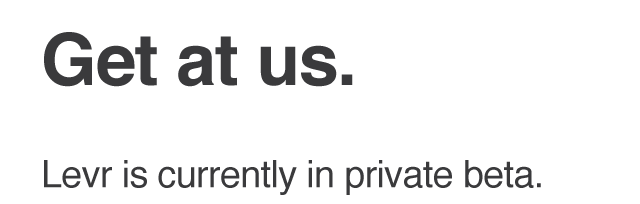
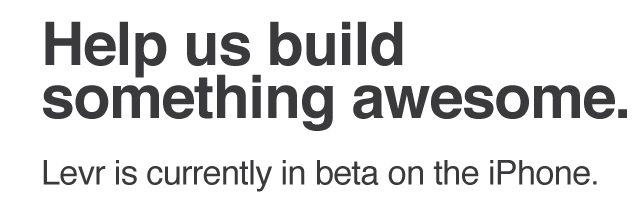
pointed mobile landing page to testflight

Changed region(s): [[0.0625, 0.0882, 1.0, 0.6471], [0.0625, 0.7647, 0.9375, 0.9706]]

diff --git a/css/landing_v2_mobile.css b/css/landing_v2_mobile.css
@@ -50,7 +50,7 @@ body{
 }
 
 #requestBeta{
-	font-size: 13pt;
+	font-size: 16pt;
 	margin-top: 10px;
 	margin-left: auto;
 	margin-right: auto;
@@ -145,4 +145,26 @@ a{
 	background: -webkit-gradient(linear, left top, left bottom, from(#ededed), to(#fff));
 	background: -moz-linear-gradient(top,  #ededed,  #fff);
 	filter:  progid:DXImageTransform.Microsoft.gradient(startColorstr='#ededed', endColorstr='#ffffff');
+}
+
+/* green */
+.green {
+	color: #e8f0de;
+	border: solid 1px #538312;
+	background: #64991e;
+	background: -webkit-gradient(linear, left top, left bottom, from(#7db72f), to(#4e7d0e));
+	background: -moz-linear-gradient(top,  #7db72f,  #4e7d0e);
+	filter:  progid:DXImageTransform.Microsoft.gradient(startColorstr='#7db72f', endColorstr='#4e7d0e');
+}
+.green:hover {
+	background: #538018;
+	background: -webkit-gradient(linear, left top, left bottom, from(#6b9d28), to(#436b0c));
+	background: -moz-linear-gradient(top,  #6b9d28,  #436b0c);
+	filter:  progid:DXImageTransform.Microsoft.gradient(startColorstr='#6b9d28', endColorstr='#436b0c');
+}
+.green:active {
+	color: #a9c08c;
+	background: -webkit-gradient(linear, left top, left bottom, from(#4e7d0e), to(#7db72f));
+	background: -moz-linear-gradient(top,  #4e7d0e,  #7db72f);
+	filter:  progid:DXImageTransform.Microsoft.gradient(startColorstr='#4e7d0e', endColorstr='#7db72f');
 }

diff --git a/templates/landing_v2_mobile.html b/templates/landing_v2_mobile.html
@@ -33,9 +33,10 @@ mixpanel.init("115b36ec63eb2cb70bb9196c58046f6f");</script>
 		<img id="earn_money_text" src="../img/earn_money_text.png">
 		<img id="earn_money" src="../img/iphone_mydeals.png">
 		<img id="get_at_us_text" src="../img/get_at_us_text.png">
-		<input type="text" id="email" name="email" placeholder="Your email">
+		<a id="requestBeta" href="http://tflig.ht/PjSN9X" class="button green">Beta-test Levr.</a>
+		<!--input type="text" id="email" name="email" placeholder="Your email">
 		<a id="requestBeta" class="button white">Request Invite</a>
-		<p id="inviteRequested" hidden>Your beta invite has been requested.</p>
+		<p id="inviteRequested" hidden>Your beta invite has been requested.</p-->
 		<img id="vote_text" src="../img/vote_text.png">
 		<img id="playlists" class="featureImg"  src="../img/playlists.png">
 		<img id="koth" class="featureImg" src="../img/koth.png">

diff --git a/js/merchantBeta.js b/js/merchantBeta.js
@@ -5,7 +5,7 @@ $(window).load(function(){
 	mixpanel.track("Merchant Beta Page Loaded",{"Load Time":millisecondsLoading});
 	
 	$('#signupForm').submit(function(e){
-		e.preventDefault()
+		//e.preventDefault()
 		mixpanel.track("Merchant Beta Signup",{"business_name":$('#business_name').val(),"contact_name":$('#contact_name').val(),"contact_email":$('#contact_email').val(),"contact_phone":$('#contact_phone').val()},function(){
 			mixpanel.people.identify($('#business_name').val(),function(){
 				mixpanel.people.set({"business_name":$('#business_name').val(),
